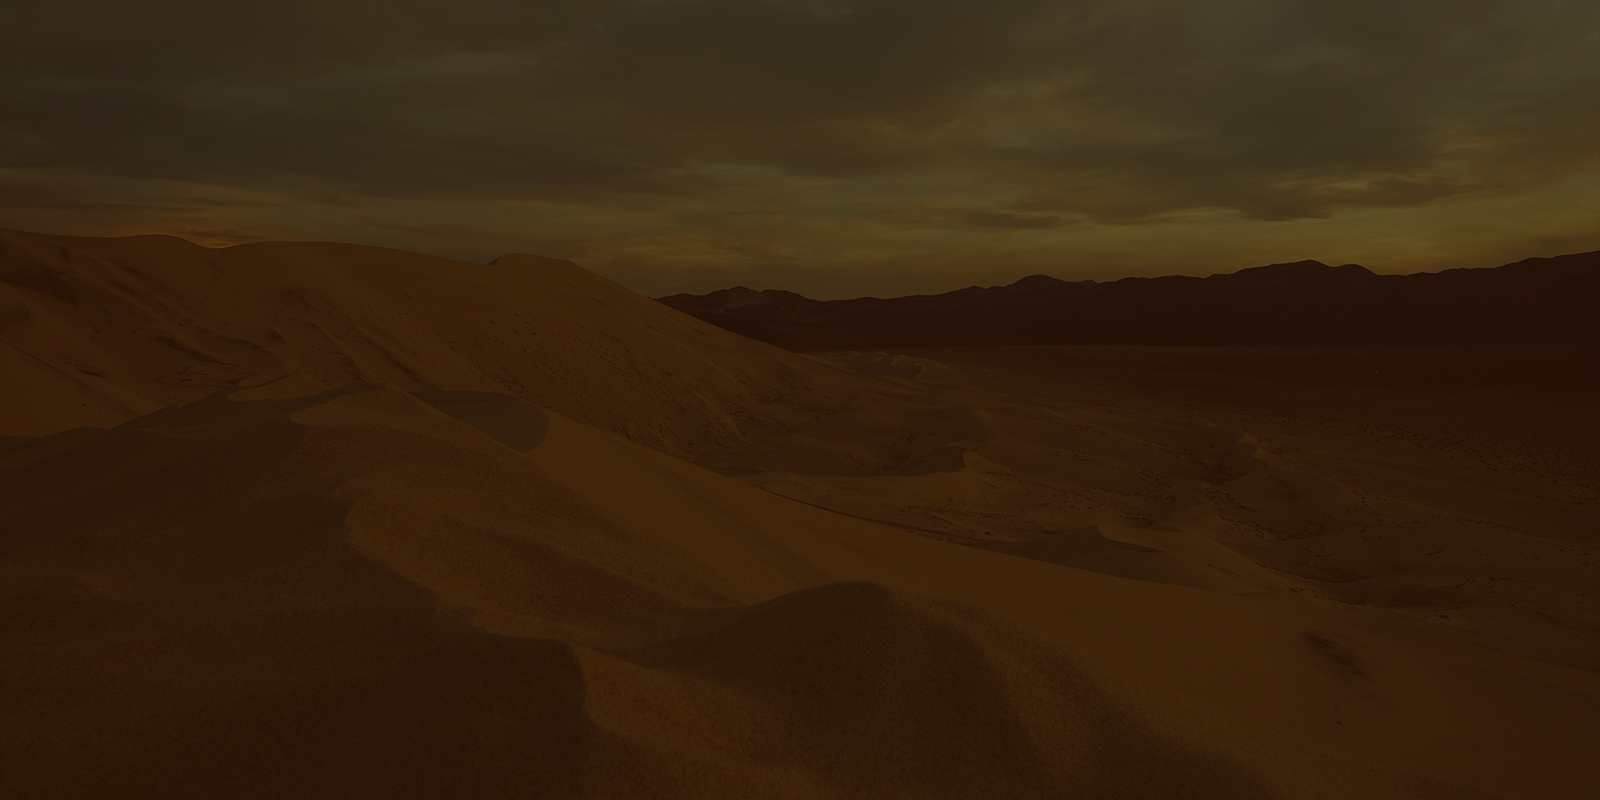
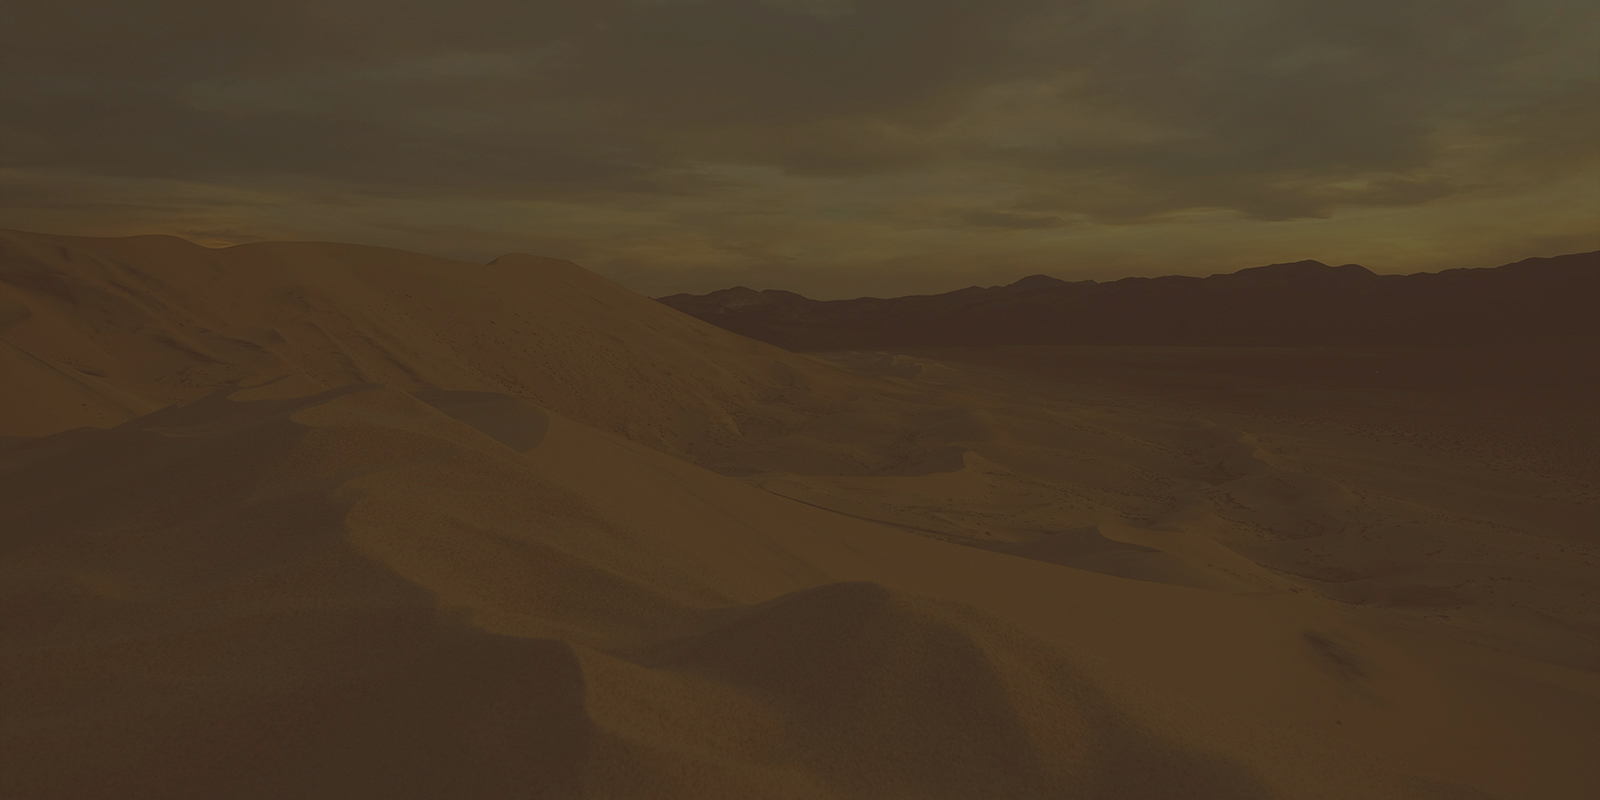
update images

diff --git a/about.html b/about.html
@@ -20,9 +20,9 @@ title: Helen Tran; About
 
 								<h2>I&rsquo;m a <em>Product Designer</em> at <a href="http://shopify.com">Shopify</a>. I&rsquo;m currently managing a design team and use words like <em>scaling and holistic</em> when referring to them or our projects.</h2>
 
-								<p>Part-time I&rsquo;ve been mentoring students at <a href="http://bloc.io">Bloc</a> for two years but am now looking for new ways to change design education.</p>
+								<p>Part-time, I&rsquo;ve mentored students at <a href="http://bloc.io">Bloc</a> for the past two years but am now looking for new ways to change design education.</p>
 
-								<p>After formal print design education, I started <a href="http://helentran.com/the-path">my career</a> working for a documentary film maker. He won some awards and I moved onto a branding agency and started a photography business. After my work was published in a few newspapers and magazines, I abruptly sold my camera and gear and quit my branding job. I bounced around some start-ups until I found <a href="http://jetcooper.com">JetCooper</a> and we all moved to <a href="http://shopify.com">Shopify</a> about three years ago. Sometime in this, I met Martin Sheen.</p>
+								<p>I started <a href="http://helentran.com/the-path">my career</a> working for a documentary film maker. He won some awards and I met Martin Sheen. I moved onto a branding agency and started a photography business. After my work was published in a few newspapers and magazines, I sold my camera and equipment and quit my branding job. I passed through a start-up until I found <a href="http://jetcooper.com">Jet Cooper</a>. We all moved to <a href="http://shopify.com">Shopify</a> about three years ago.</p>
 
 								<p>I make time for <a href="http://instagram.com/tranhelen">travel</a>, stalking stand-up comedians, writing, and the gym. I fantasize about having a dog but have commitment issues so I&rsquo;ve settled for two succulents named <em>Danté</em> and <em>Sedona</em>. I worry about them.</p>
 							</div>

diff --git a/css/theme/style.css b/css/theme/style.css
@@ -2655,7 +2655,7 @@ section {
 @media screen and (min-width: 1000px) {
   /* line 195, ../../sass/partials/_main.scss */
   .about {
-    background: #283e4c url("/img/about-background.jpg");
+    background: #283e4c url("/img/about-background2.jpg");
     background-attachment: fixed;
     background-position: 50%;
     background-size: cover;

diff --git a/sass/partials/_main.scss b/sass/partials/_main.scss
@@ -194,7 +194,7 @@ section {
 
 .about {
 	@include at-query($two) {
-		background: $colorBGdark url('/img/about-background.jpg');
+		background: $colorBGdark url('/img/about-background2.jpg');
 		background-attachment: fixed;
 		background-position: 50%;
 		background-size: cover;
